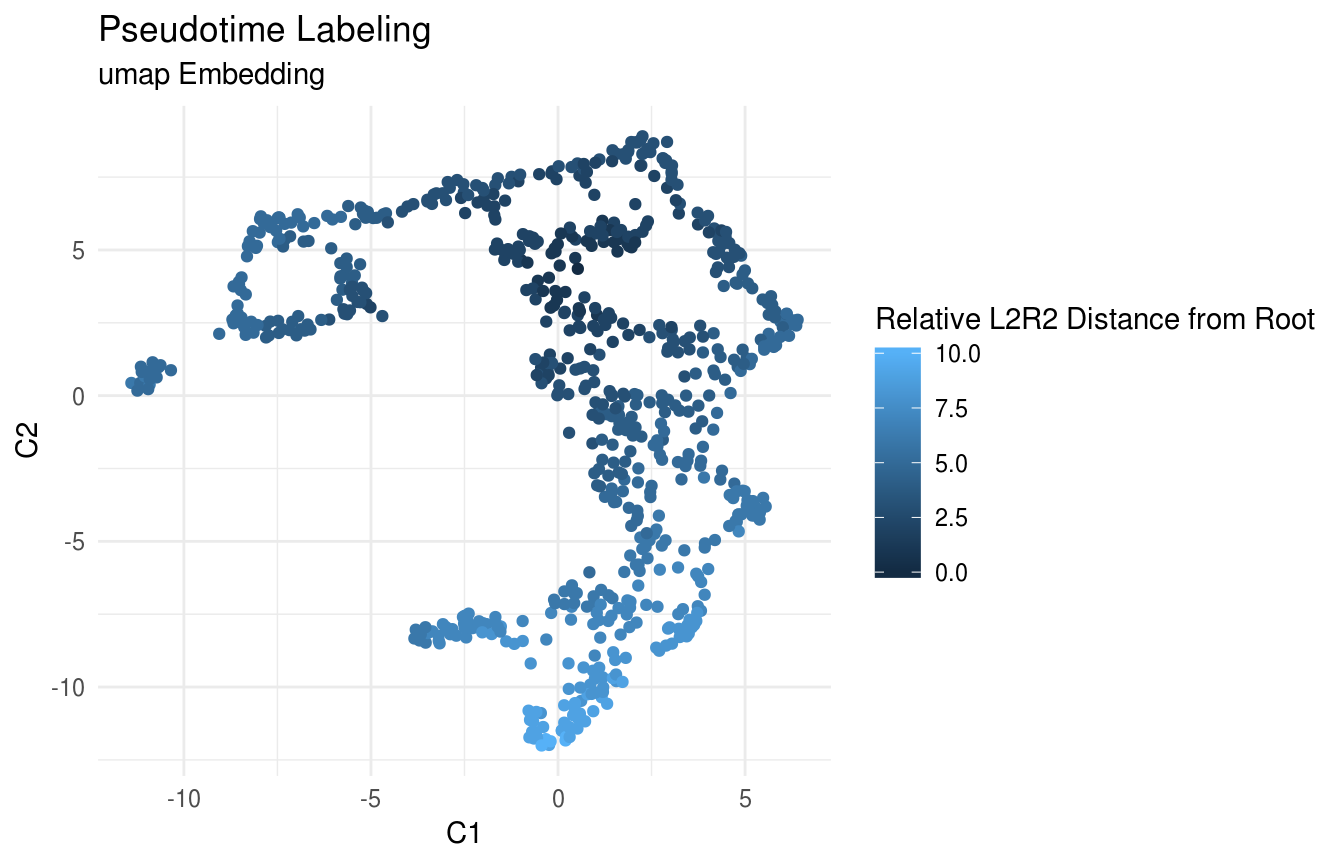
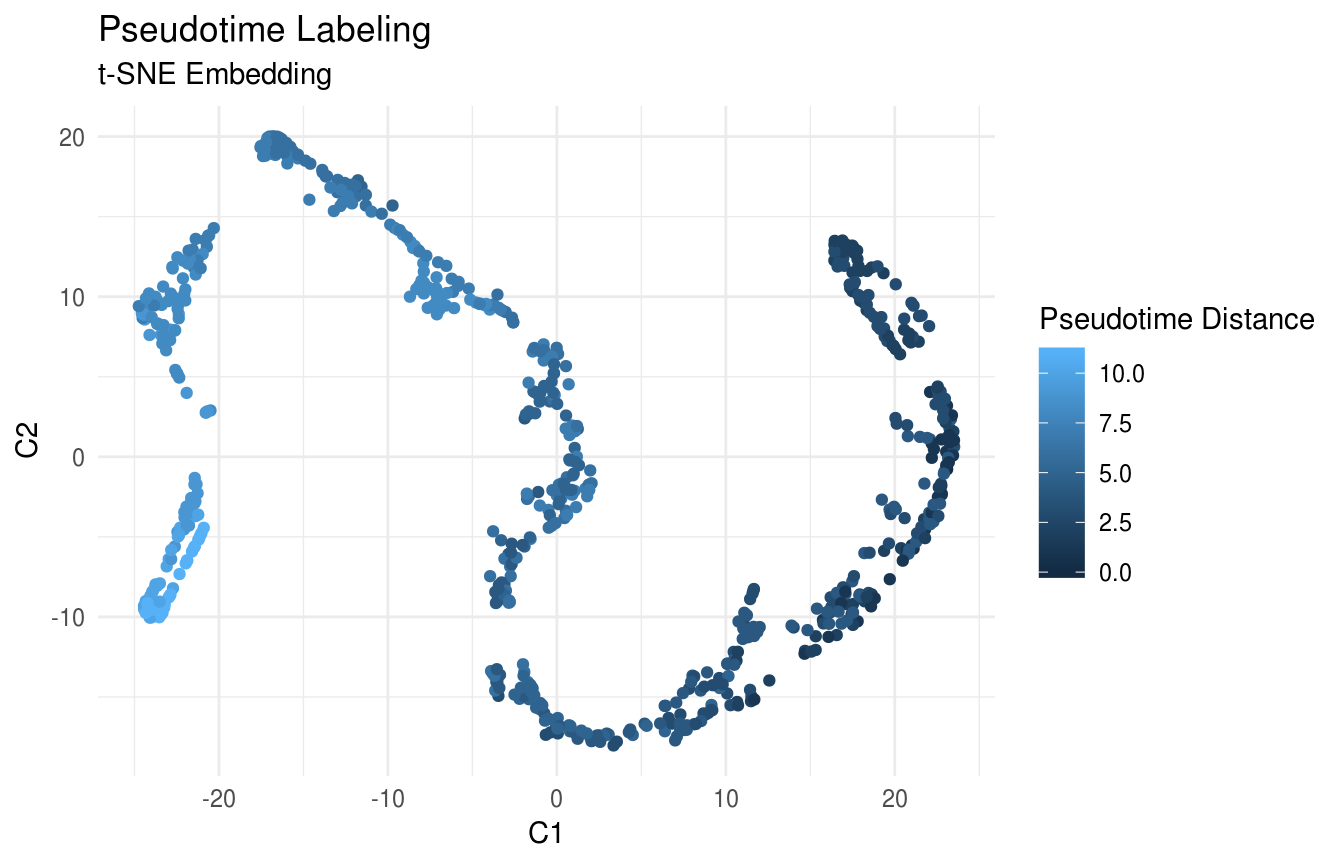
changed vignette to tsne

diff --git a/docs/articles/Joost_et_al.html b/docs/articles/Joost_et_al.html
@@ -81,7 +81,7 @@
       <h1>Clustering Pseudotime Inference on Skin Cell scRNA-seq</h1>
                         <h4 class="author">Matt Karikomi</h4>
             
-            <h4 class="date">2019-03-22</h4>
+            <h4 class="date">2019-03-25</h4>
       
       
       <div class="hidden name"><code>Joost_et_al.Rmd</code></div>
@@ -118,12 +118,16 @@
 <p>Run L2R2 on the processed data, outputting the number of iterations and value of the objective.</p>
 <p>Compute distances on the similarity matrix. If the truncated graph has multiple components, join them to improve inter-cluster distance estimation.</p>
 <div class="sourceCode" id="cb3"><pre class="sourceCode r"><code class="sourceCode r"><a class="sourceLine" id="cb3-1" data-line-number="1">low_dim_mapping &lt;-<span class="st"> </span><span class="kw"><a href="../reference/RepresentationMap.html">RepresentationMap</a></span>(<span class="dt">similarity_matrix =</span> S<span class="op">$</span>W,</a>
-<a class="sourceLine" id="cb3-2" data-line-number="2">                            <span class="dt">join_components =</span> <span class="ot">TRUE</span>,</a>
-<a class="sourceLine" id="cb3-3" data-line-number="3">                            <span class="dt">input =</span> <span class="st">'data'</span>,</a>
-<a class="sourceLine" id="cb3-4" data-line-number="4">                            <span class="dt">random_state =</span> <span class="dv">0</span>,</a>
-<a class="sourceLine" id="cb3-5" data-line-number="5">                            <span class="dt">knn.repeat =</span> <span class="dv">3</span>,</a>
-<a class="sourceLine" id="cb3-6" data-line-number="6">                            <span class="dt">min_dist =</span> <span class="fl">0.6</span>,</a>
-<a class="sourceLine" id="cb3-7" data-line-number="7">                            <span class="dt">n_neighbors =</span> <span class="dv">30</span>)</a></code></pre></div>
+<a class="sourceLine" id="cb3-2" data-line-number="2">                            <span class="dt">flat_embedding_method =</span> <span class="st">'tsne'</span>,</a>
+<a class="sourceLine" id="cb3-3" data-line-number="3">                            <span class="dt">join_components =</span> <span class="ot">FALSE</span>,</a>
+<a class="sourceLine" id="cb3-4" data-line-number="4">                            <span class="dt">perplexity =</span> <span class="dv">35</span>,</a>
+<a class="sourceLine" id="cb3-5" data-line-number="5">                            <span class="dt">theta =</span> <span class="fl">0.5</span>,</a>
+<a class="sourceLine" id="cb3-6" data-line-number="6">                            <span class="dt">normalize =</span> <span class="ot">FALSE</span>,</a>
+<a class="sourceLine" id="cb3-7" data-line-number="7">                            <span class="dt">pca =</span> <span class="ot">TRUE</span>,</a>
+<a class="sourceLine" id="cb3-8" data-line-number="8">                            <span class="dt">pca_center =</span> <span class="ot">TRUE</span>,</a>
+<a class="sourceLine" id="cb3-9" data-line-number="9">                            <span class="dt">pca_scale =</span> <span class="ot">TRUE</span>,</a>
+<a class="sourceLine" id="cb3-10" data-line-number="10">                            <span class="dt">dims =</span> <span class="dv">2</span>,</a>
+<a class="sourceLine" id="cb3-11" data-line-number="11">                            <span class="dt">initial_dims =</span> <span class="dv">2</span>)</a></code></pre></div>
 </div>
 <div id="cluster-the-cells" class="section level2">
 <h2 class="hasAnchor">
@@ -162,7 +166,7 @@
 <a class="sourceLine" id="cb8-7" data-line-number="7"><span class="kw"><a href="../reference/FeatureScatterPlot.html">FeatureScatterPlot</a></span>(<span class="dt">flat_embedding =</span> low_dim_mapping<span class="op">$</span>flat_embedding,</a>
 <a class="sourceLine" id="cb8-8" data-line-number="8">                         <span class="dt">feature =</span> <span class="kw"><a href="https://www.rdocumentation.org/packages/base/topics/factor">as.factor</a></span>(labels),</a>
 <a class="sourceLine" id="cb8-9" data-line-number="9">                         <span class="dt">title =</span> <span class="st">"NMF Cluster Labeling"</span>,</a>
-<a class="sourceLine" id="cb8-10" data-line-number="10">                         <span class="dt">subtitle =</span> <span class="st">"umap Embedding"</span>,</a>
+<a class="sourceLine" id="cb8-10" data-line-number="10">                         <span class="dt">subtitle =</span> <span class="st">"t-SNE Embedding"</span>,</a>
 <a class="sourceLine" id="cb8-11" data-line-number="11">                         <span class="dt">featurename =</span> <span class="st">"Cluster ID"</span>,</a>
 <a class="sourceLine" id="cb8-12" data-line-number="12">                         <span class="dt">colorscale =</span> colorscale)</a></code></pre></div>
 <p><img src="Joost_et_al_files/figure-html/unnamed-chunk-10-1.png" width="100%" height="100%"></p>
@@ -173,7 +177,7 @@
 <a class="sourceLine" id="cb9-4" data-line-number="4"><span class="kw"><a href="../reference/FeatureScatterPlot.html">FeatureScatterPlot</a></span>(<span class="dt">flat_embedding =</span> low_dim_mapping<span class="op">$</span>flat_embedding,</a>
 <a class="sourceLine" id="cb9-5" data-line-number="5">                         <span class="dt">feature =</span> <span class="kw"><a href="https://www.rdocumentation.org/packages/base/topics/factor">as.factor</a></span>(true_labels),</a>
 <a class="sourceLine" id="cb9-6" data-line-number="6">                         <span class="dt">title =</span> <span class="st">"True Labeling"</span>,</a>
-<a class="sourceLine" id="cb9-7" data-line-number="7">                         <span class="dt">subtitle =</span> <span class="st">"umap Embedding"</span>,</a>
+<a class="sourceLine" id="cb9-7" data-line-number="7">                         <span class="dt">subtitle =</span> <span class="st">"t-SNE Embedding"</span>,</a>
 <a class="sourceLine" id="cb9-8" data-line-number="8">                         <span class="dt">featurename =</span> <span class="st">"Annotated Cell Types"</span>)</a></code></pre></div>
 <p><img src="Joost_et_al_files/figure-html/unnamed-chunk-11-1.png" width="100%" height="100%"></p>
 </div>
@@ -204,7 +208,7 @@
 <a class="sourceLine" id="cb11-2" data-line-number="2">                                 <span class="dt">flat_embedding =</span> low_dim_mapping<span class="op">$</span>flat_embedding,</a>
 <a class="sourceLine" id="cb11-3" data-line-number="3">                                 <span class="dt">dist_graph =</span> low_dim_mapping<span class="op">$</span>dist_graph,</a>
 <a class="sourceLine" id="cb11-4" data-line-number="4">                                 <span class="dt">dist_flat =</span> low_dim_mapping<span class="op">$</span>dist_flat,</a>
-<a class="sourceLine" id="cb11-5" data-line-number="5">                                 <span class="dt">reverse =</span> <span class="ot">TRUE</span>)</a></code></pre></div>
+<a class="sourceLine" id="cb11-5" data-line-number="5">                                 <span class="dt">reverse =</span> <span class="ot">FALSE</span>)</a></code></pre></div>
 <p>Compute the cell-cell graph and find the root cell.</p>
 <div class="sourceCode" id="cb12"><pre class="sourceCode r"><code class="sourceCode r"><a class="sourceLine" id="cb12-1" data-line-number="1">root_cell &lt;-<span class="st"> </span><span class="kw"><a href="../reference/FindRootCell.html">FindRootCell</a></span>(<span class="dt">use_flat_dist =</span> <span class="ot">FALSE</span>,</a>
 <a class="sourceLine" id="cb12-2" data-line-number="2">                          <span class="dt">cluster_order_by =</span> <span class="st">"distance"</span>,</a>
@@ -232,8 +236,8 @@
 <a class="sourceLine" id="cb14-5" data-line-number="5"><span class="kw"><a href="../reference/FeatureScatterPlot.html">FeatureScatterPlot</a></span>(<span class="dt">flat_embedding =</span> low_dim_mapping<span class="op">$</span>flat_embedding,</a>
 <a class="sourceLine" id="cb14-6" data-line-number="6">                         <span class="dt">feature =</span> pseudotime,</a>
 <a class="sourceLine" id="cb14-7" data-line-number="7">                         <span class="dt">title =</span> <span class="st">"Pseudotime Labeling"</span>,</a>
-<a class="sourceLine" id="cb14-8" data-line-number="8">                         <span class="dt">subtitle =</span> <span class="st">"umap Embedding"</span>,</a>
-<a class="sourceLine" id="cb14-9" data-line-number="9">                         <span class="dt">featurename =</span> <span class="st">"Relative L2R2 Distance from Root"</span>)</a></code></pre></div>
+<a class="sourceLine" id="cb14-8" data-line-number="8">                         <span class="dt">subtitle =</span> <span class="st">"t-SNE Embedding"</span>,</a>
+<a class="sourceLine" id="cb14-9" data-line-number="9">                         <span class="dt">featurename =</span> <span class="st">"Pseudotime Distance"</span>)</a></code></pre></div>
 <p><img src="Joost_et_al_files/figure-html/unnamed-chunk-16-1.png" width="100%" height="100%"></p>
 </div>
 <div id="plot-gene-expression-on-the-flat-embedding" class="section level2">
@@ -248,8 +252,8 @@
 <a class="sourceLine" id="cb15-6" data-line-number="6"><span class="kw"><a href="../reference/FeatureScatterPlot.html">FeatureScatterPlot</a></span>(<span class="dt">flat_embedding =</span> low_dim_mapping<span class="op">$</span>flat_embedding,</a>
 <a class="sourceLine" id="cb15-7" data-line-number="7">                    <span class="dt">feature =</span> data_gene,</a>
 <a class="sourceLine" id="cb15-8" data-line-number="8">                    <span class="dt">title =</span> <span class="st">"Krt14 Expression"</span>,</a>
-<a class="sourceLine" id="cb15-9" data-line-number="9">                    <span class="dt">subtitle =</span> <span class="st">"umap Embedding"</span>,</a>
-<a class="sourceLine" id="cb15-10" data-line-number="10">                    <span class="dt">featurename =</span> <span class="st">"Log Krt14 Expression"</span>)</a></code></pre></div>
+<a class="sourceLine" id="cb15-9" data-line-number="9">                    <span class="dt">subtitle =</span> <span class="st">"t-SNE Embedding"</span>,</a>
+<a class="sourceLine" id="cb15-10" data-line-number="10">                    <span class="dt">featurename =</span> <span class="st">"Log Expression"</span>)</a></code></pre></div>
 <p><img src="Joost_et_al_files/figure-html/unnamed-chunk-17-1.png" width="100%" height="100%"></p>
 <div class="sourceCode" id="cb16"><pre class="sourceCode r"><code class="sourceCode r"><a class="sourceLine" id="cb16-1" data-line-number="1">gene_index &lt;-<span class="st"> </span><span class="kw"><a href="https://www.rdocumentation.org/packages/base/topics/which">which</a></span>(gene_names <span class="op">==</span><span class="st"> 'Krt10'</span>)</a>
 <a class="sourceLine" id="cb16-2" data-line-number="2">data_gene &lt;-<span class="st"> </span>logdata[gene_index,]</a>
@@ -259,8 +263,8 @@
 <a class="sourceLine" id="cb16-6" data-line-number="6"><span class="kw"><a href="../reference/FeatureScatterPlot.html">FeatureScatterPlot</a></span>(<span class="dt">flat_embedding =</span> low_dim_mapping<span class="op">$</span>flat_embedding,</a>
 <a class="sourceLine" id="cb16-7" data-line-number="7">                    <span class="dt">feature =</span> data_gene,</a>
 <a class="sourceLine" id="cb16-8" data-line-number="8">                    <span class="dt">title =</span> <span class="st">"Krt10 Expression"</span>,</a>
-<a class="sourceLine" id="cb16-9" data-line-number="9">                    <span class="dt">subtitle =</span> <span class="st">"umap Embedding"</span>,</a>
-<a class="sourceLine" id="cb16-10" data-line-number="10">                    <span class="dt">featurename =</span> <span class="st">"Log Krt10 Expression"</span>)</a></code></pre></div>
+<a class="sourceLine" id="cb16-9" data-line-number="9">                    <span class="dt">subtitle =</span> <span class="st">"t-SNE Embedding"</span>,</a>
+<a class="sourceLine" id="cb16-10" data-line-number="10">                    <span class="dt">featurename =</span> <span class="st">"Log Expression"</span>)</a></code></pre></div>
 <p><img src="Joost_et_al_files/figure-html/unnamed-chunk-18-1.png" width="100%" height="100%"></p>
 <div class="sourceCode" id="cb17"><pre class="sourceCode r"><code class="sourceCode r"><a class="sourceLine" id="cb17-1" data-line-number="1">gene_index &lt;-<span class="st"> </span><span class="kw"><a href="https://www.rdocumentation.org/packages/base/topics/which">which</a></span>(gene_names <span class="op">==</span><span class="st"> 'Lor'</span>)</a>
 <a class="sourceLine" id="cb17-2" data-line-number="2">data_gene &lt;-<span class="st"> </span>logdata[gene_index,]</a>
@@ -270,26 +274,26 @@
 <a class="sourceLine" id="cb17-6" data-line-number="6"><span class="kw"><a href="../reference/FeatureScatterPlot.html">FeatureScatterPlot</a></span>(<span class="dt">flat_embedding =</span> low_dim_mapping<span class="op">$</span>flat_embedding,</a>
 <a class="sourceLine" id="cb17-7" data-line-number="7">                    <span class="dt">feature =</span> data_gene,</a>
 <a class="sourceLine" id="cb17-8" data-line-number="8">                    <span class="dt">title =</span> <span class="st">"Lor Expression"</span>,</a>
-<a class="sourceLine" id="cb17-9" data-line-number="9">                    <span class="dt">subtitle =</span> <span class="st">"umap Embedding"</span>,</a>
-<a class="sourceLine" id="cb17-10" data-line-number="10">                    <span class="dt">featurename =</span> <span class="st">"Log Lor Expression"</span>)</a></code></pre></div>
+<a class="sourceLine" id="cb17-9" data-line-number="9">                    <span class="dt">subtitle =</span> <span class="st">"t-SNE Embedding"</span>,</a>
+<a class="sourceLine" id="cb17-10" data-line-number="10">                    <span class="dt">featurename =</span> <span class="st">"Log Expression"</span>)</a></code></pre></div>
 <p><img src="Joost_et_al_files/figure-html/unnamed-chunk-19-1.png" width="100%" height="100%"></p>
 </div>
 <div id="plot-gene-expression-levels-in-cells-grouped-by-cluster" class="section level2">
 <h2 class="hasAnchor">
 <a href="#plot-gene-expression-levels-in-cells-grouped-by-cluster" class="anchor"></a>Plot Gene Expression Levels in Cells Grouped by Cluster</h2>
-<p>Violin Plot of Krt14 expression. Note strong expression of the basal compartment (clusters 4 and 5):</p>
+<p>Violin Plot of Krt14 expression. Note strong expression of the basal compartment (clusters 2 and 7):</p>
 <div class="sourceCode" id="cb18"><pre class="sourceCode r"><code class="sourceCode r"><a class="sourceLine" id="cb18-1" data-line-number="1">  <span class="kw"><a href="https://www.rdocumentation.org/packages/graphics/topics/par">par</a></span>(<span class="dt">mar=</span><span class="kw"><a href="https://www.rdocumentation.org/packages/base/topics/c">c</a></span>(<span class="dv">1</span>,<span class="dv">1</span>,<span class="dv">1</span>,<span class="dv">1</span>))</a>
 <a class="sourceLine" id="cb18-2" data-line-number="2">  <span class="kw"><a href="../reference/ViolinPlotExpression.html">ViolinPlotExpression</a></span>(<span class="dt">data =</span> logdata,</a>
 <a class="sourceLine" id="cb18-3" data-line-number="3">                       <span class="dt">gene_names =</span> gene_names,</a>
 <a class="sourceLine" id="cb18-4" data-line-number="4">                       <span class="dt">labels =</span> labels,</a>
 <a class="sourceLine" id="cb18-5" data-line-number="5">                       <span class="dt">gene_name =</span> <span class="st">"Krt14"</span>)</a></code></pre></div>
-<p><img src="Joost_et_al_files/figure-html/unnamed-chunk-20-1.png" width="100%" height="100%"> Violin Plot of Krt10 expression. Note uniformly high expression in the IFE-DI/DII compartments (clusters 1, 2, 7). Note that the mixed expression of Krt10 in cluster 5, which may indicate a population of transitioning basal cells:</p>
+<p><img src="Joost_et_al_files/figure-html/unnamed-chunk-20-1.png" width="100%" height="100%"> Violin Plot of Krt10 expression. Note uniformly high expression in the IFE-DI/DII compartments (clusters 5, 1, 4):</p>
 <div class="sourceCode" id="cb19"><pre class="sourceCode r"><code class="sourceCode r"><a class="sourceLine" id="cb19-1" data-line-number="1">  <span class="kw"><a href="https://www.rdocumentation.org/packages/graphics/topics/par">par</a></span>(<span class="dt">mar=</span><span class="kw"><a href="https://www.rdocumentation.org/packages/base/topics/c">c</a></span>(<span class="dv">1</span>,<span class="dv">1</span>,<span class="dv">1</span>,<span class="dv">1</span>))</a>
 <a class="sourceLine" id="cb19-2" data-line-number="2">  <span class="kw"><a href="../reference/ViolinPlotExpression.html">ViolinPlotExpression</a></span>(<span class="dt">data =</span> logdata,</a>
 <a class="sourceLine" id="cb19-3" data-line-number="3">                       <span class="dt">gene_names =</span> gene_names,</a>
 <a class="sourceLine" id="cb19-4" data-line-number="4">                       <span class="dt">labels =</span> labels,</a>
 <a class="sourceLine" id="cb19-5" data-line-number="5">                       <span class="dt">gene_name =</span> <span class="st">"Krt10"</span>)</a></code></pre></div>
-<p><img src="Joost_et_al_files/figure-html/unnamed-chunk-21-1.png" width="100%" height="100%"> Violin Plot of Lor expression. Note strong expression in clusters 3 and 6 which fully encompass the terminally differentiated IFE-KI/KII compartments:</p>
+<p><img src="Joost_et_al_files/figure-html/unnamed-chunk-21-1.png" width="100%" height="100%"> Violin Plot of Lor expression. Note strong expression in cluster 3 which encompass the terminally differentiated IFE-KI/KII compartments:</p>
 <div class="sourceCode" id="cb20"><pre class="sourceCode r"><code class="sourceCode r"><a class="sourceLine" id="cb20-1" data-line-number="1">  <span class="kw"><a href="https://www.rdocumentation.org/packages/graphics/topics/par">par</a></span>(<span class="dt">mar=</span><span class="kw"><a href="https://www.rdocumentation.org/packages/base/topics/c">c</a></span>(<span class="dv">1</span>,<span class="dv">1</span>,<span class="dv">1</span>,<span class="dv">1</span>))</a>
 <a class="sourceLine" id="cb20-2" data-line-number="2">  <span class="kw"><a href="../reference/ViolinPlotExpression.html">ViolinPlotExpression</a></span>(<span class="dt">data =</span> logdata,</a>
 <a class="sourceLine" id="cb20-3" data-line-number="3">                       <span class="dt">gene_names =</span> gene_names,</a>
